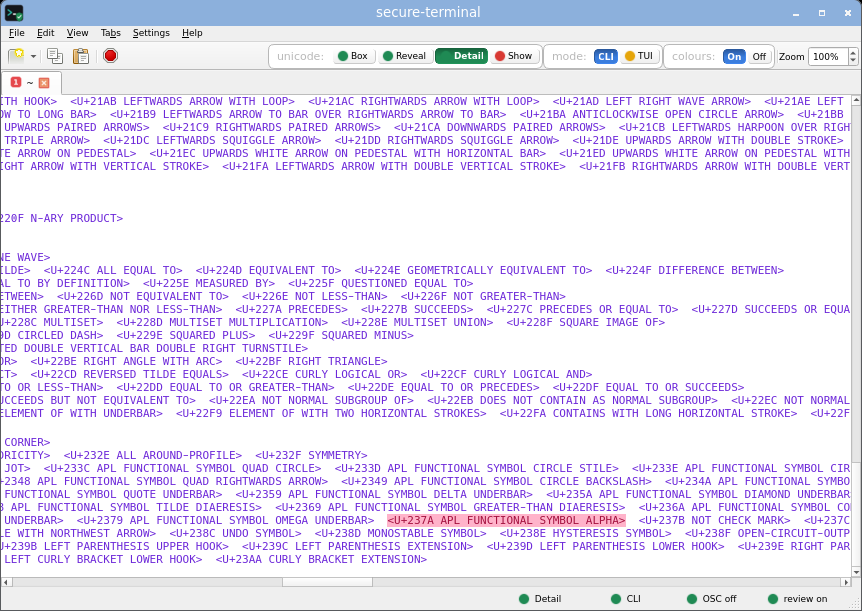
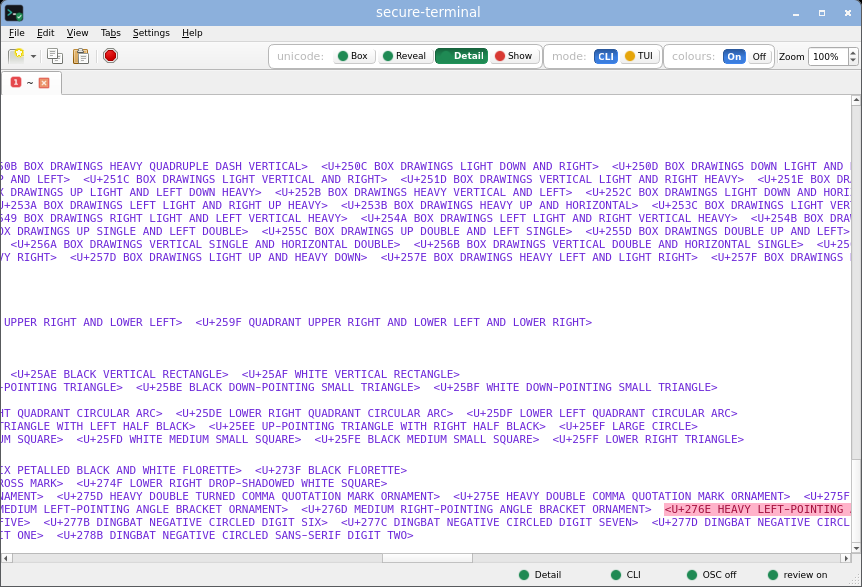
comparison: refresh the Unicode detail shot
Re-captured from the hardened generator (control-string terminators); the detail
mode retrims slightly. Content unchanged: every code point still an identity
badge.

diff --git a/comparison/index.html b/comparison/index.html
@@ -545,7 +545,7 @@ reset</code><button class="copybtn" type="button" hidden>Copy</button></div>
   <div class="shotgrid">
     <figure class="shot"><figcaption class="shotname"><b>secure-terminal</b> (CLI, Show) - glyphs rendered and tinted by risk class: homoglyphs red, combining marks blue, spaces flagged.</figcaption><a href="shots/secure-terminal.unicode-show.webp" target="_blank" rel="noopener"><img src="shots/secure-terminal.unicode-show.webp" width="862" height="647" loading="lazy" alt="secure-terminal in CLI Show mode rendering a Unicode gallery with each character tinted by its risk class."></a></figure>
     <figure class="shot"><figcaption class="shotname"><b>secure-terminal</b> (TUI, Show) - the same gallery full-screen, a code-chart grid of tinted glyphs.</figcaption><a href="shots/secure-terminal.unicode-tui-show.webp" target="_blank" rel="noopener"><img src="shots/secure-terminal.unicode-tui-show.webp" width="862" height="647" loading="lazy" alt="secure-terminal in TUI Show mode rendering the Unicode gallery as a full-screen code-chart grid."></a></figure>
-    <figure class="shot"><figcaption class="shotname"><b>secure-terminal</b> (CLI, Detail) - every code point named inline as a &lt;U+XXXX NAME&gt; badge, so nothing is shown silently.</figcaption><a href="shots/secure-terminal.unicode-detail.webp" target="_blank" rel="noopener"><img src="shots/secure-terminal.unicode-detail.webp" width="862" height="611" loading="lazy" alt="secure-terminal in CLI Detail mode labelling every code point with its Unicode name as a badge."></a></figure>
+    <figure class="shot"><figcaption class="shotname"><b>secure-terminal</b> (CLI, Detail) - every code point named inline as a &lt;U+XXXX NAME&gt; badge, so nothing is shown silently.</figcaption><a href="shots/secure-terminal.unicode-detail.webp" target="_blank" rel="noopener"><img src="shots/secure-terminal.unicode-detail.webp" width="862" height="587" loading="lazy" alt="secure-terminal in CLI Detail mode labelling every code point with its Unicode name as a badge."></a></figure>
   </div>
 </div></section>
 
